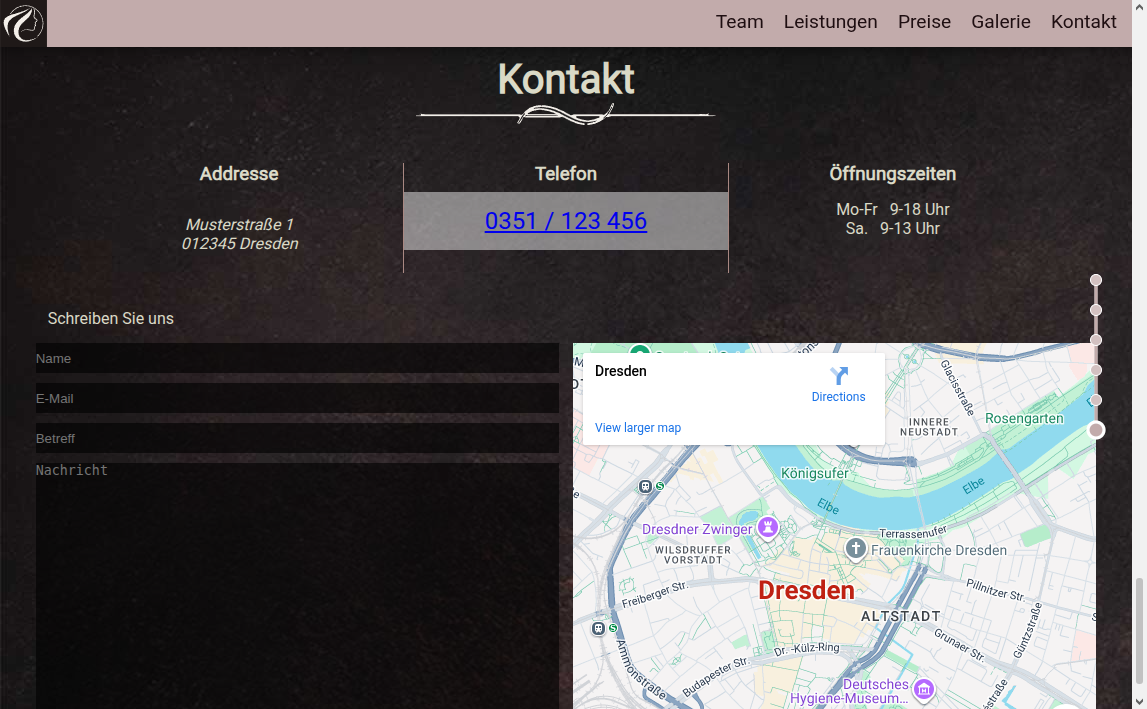
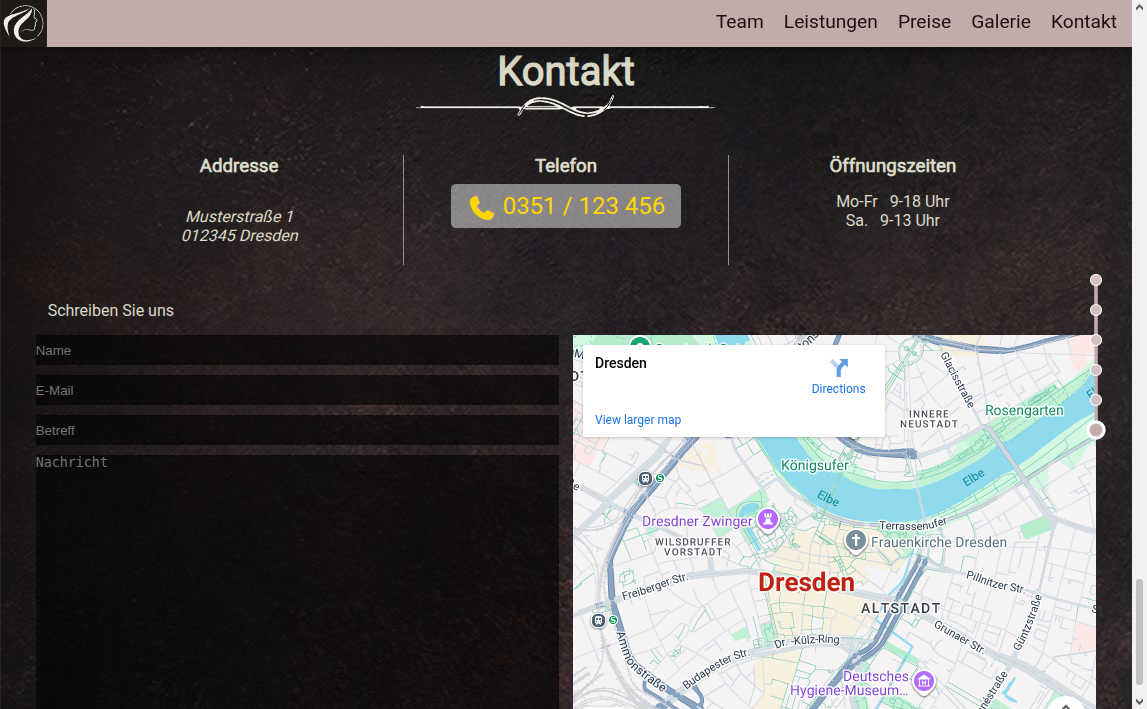
changed tel. part

diff --git a/css/style.css b/css/style.css
@@ -60,14 +60,34 @@ section {
     margin: auto;
 }
 
+
 .tel {
+    display: block;
+    /* Block-Element */
+    width: fit-content;
+    /* nur so breit wie der Inhalt */
+    margin: 1vh auto;
+    /* oben/unten 1vh, links/rechts zentriert */
     text-align: center;
+    /* Text zentrieren */
     background-color: rgba(255, 255, 255, 0.459);
-    justify-content: center;
     font-size: 1.5rem;
-    color: white;
-    margin: auto;
-    margin-top: 1vh;
+    color: #FFD700;
+    padding: 0.5rem 1rem;
+    border-radius: 5px;
+}
+
+.tel a {
+    color: inherit;
+    text-decoration: none;
+}
+
+.phone-icon {
+    color: #FFD700;
+    /* goldene Farbe für das Symbol */
+    font-size: 1.5rem;
+    /* gleiche Größe wie Text */
+    vertical-align: middle;
 }
 
 .teaser {
@@ -110,25 +130,6 @@ section {
     text-shadow:
         0 0 8px rgba(0, 0, 0, 0.8),
         0 0 18px rgba(217, 154, 26, 0.9);
-}
-
-.teaser_div>p:first-of-type {
-    text-align: center;
-    justify-content: center;
-    color: white;
-    width: 250px;
-    margin: auto;
-}
-
-.teaser_div>p:last-of-type {
-    text-align: center;
-    background-color: rgba(255, 255, 255, 0.459);
-    justify-content: center;
-    border-radius: 15px;
-    font-size: 1.2rem;
-    color: white;
-    width: 170px;
-    margin: auto;
 }
 
 .team,
@@ -339,11 +340,6 @@ ul.liste_leistung>li:last-child:after {
     display: none;
 }
 
-.preise_sponsoren [class*="info"] {
-    font-size: 11px;
-    font-family: Arial, Helvetica, sans-serif;
-}
-
 /* kontakt site */
 
 .write_us>p {
@@ -543,11 +539,6 @@ body.overlay-active {
         display: flex;
     }
 
-    .preise_sponsoren [class*="info"] {
-        position: relative;
-        text-align: center;
-    }
-
     .flex_content.space_evenly {
         position: relative;
         flex-wrap: wrap;
@@ -564,11 +555,6 @@ body.overlay-active {
     .flex_content.space_evenly .col-preise {
         background-color: rgb(240, 231, 231);
         margin-bottom: 2vh;
-    }
-
-    .preise_sponsoren [class*="flx_"],
-    .preise_schere {
-        display: none;
     }
 
     #top_header {
@@ -613,15 +599,6 @@ body.overlay-active {
         justify-content: space-around;
         align-items: baseline;
         margin-top: 1vh;
-    }
-
-    .preise_sponsoren {
-        display: flex;
-        margin: auto;
-        width: 100%;
-        justify-content: space-evenly;
-        align-content: flex-end;
-        text-align: center;
     }
 
     .flex_content_team {

diff --git a/html/index.html b/html/index.html
@@ -13,7 +13,7 @@
     <link rel="stylesheet" href="https://cdnjs.cloudflare.com/ajax/libs/font-awesome/7.0.1/css/all.min.css"
         integrity="sha512-2SwdPD6INVrV/lHTZbO2nodKhrnDdJK9/kg2XD1r9uGqPo1cUbujc+IYdlYdEErWNu69gVcYgdxlmVmzTWnetw=="
         crossorigin="anonymous" referrerpolicy="no-referrer" />
-    
+
     <link rel="stylesheet" href="../css/style.css">
     <link rel="stylesheet" href="../css/progress.css">
     <link rel="stylesheet" href="../css/gallery.css">
@@ -73,8 +73,10 @@
             <div class="wrapper">
                 <div class="teaser_div">
                     <div class="teaser_logo">Hair Design DD<br>✂</div>
-                    <p>Termin vereinbaren</p>
-                    <p><a href="tel:0351123456">0351 / 123 456</a></p>
+                    <p class="tel">
+                        <i class="fa-solid fa-phone phone-icon"></i>
+                        <a href="tel:0351123456">0351 / 123 456</a>
+                    </p>
                 </div>
             </div>
         </section>
@@ -359,7 +361,10 @@
                     </div>
                     <div class="col-3">
                         <h3>Telefon</h3>
-                        <p class="tel"><a href="tel:0351123456">0351 / 123 456</a></p>
+                        <p class="tel">
+                            <i class="fa-solid fa-phone phone-icon"></i>
+                            <a href="tel:0351123456">0351 / 123 456</a>
+                        </p>
                     </div>
                     <div class="col-3">
                         <h3>Öffnungszeiten</h3>
